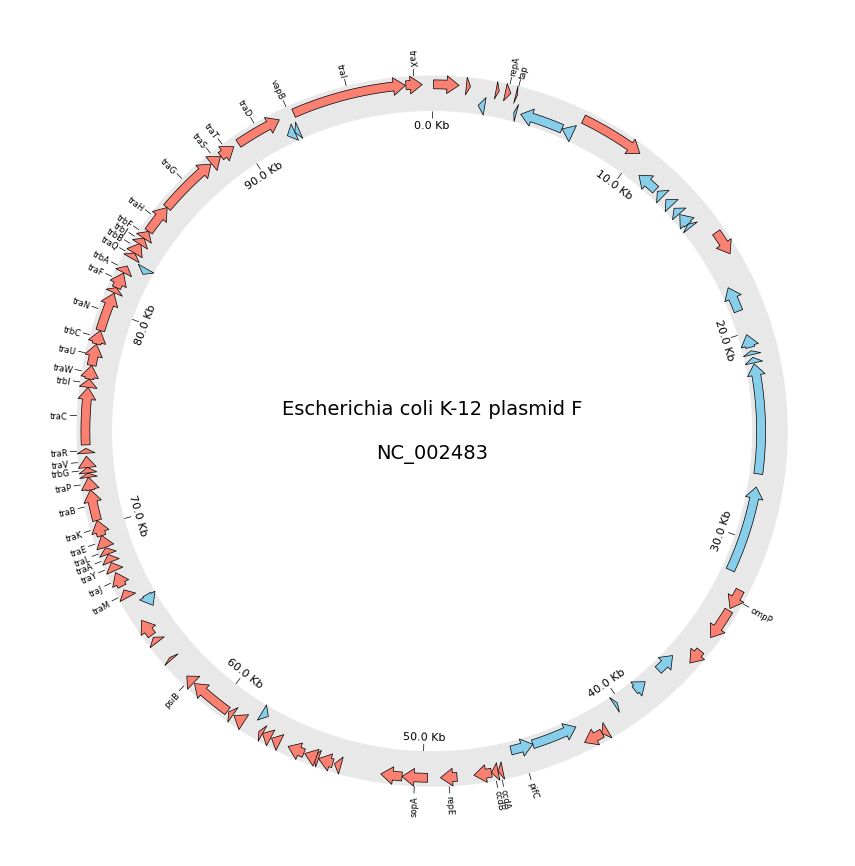
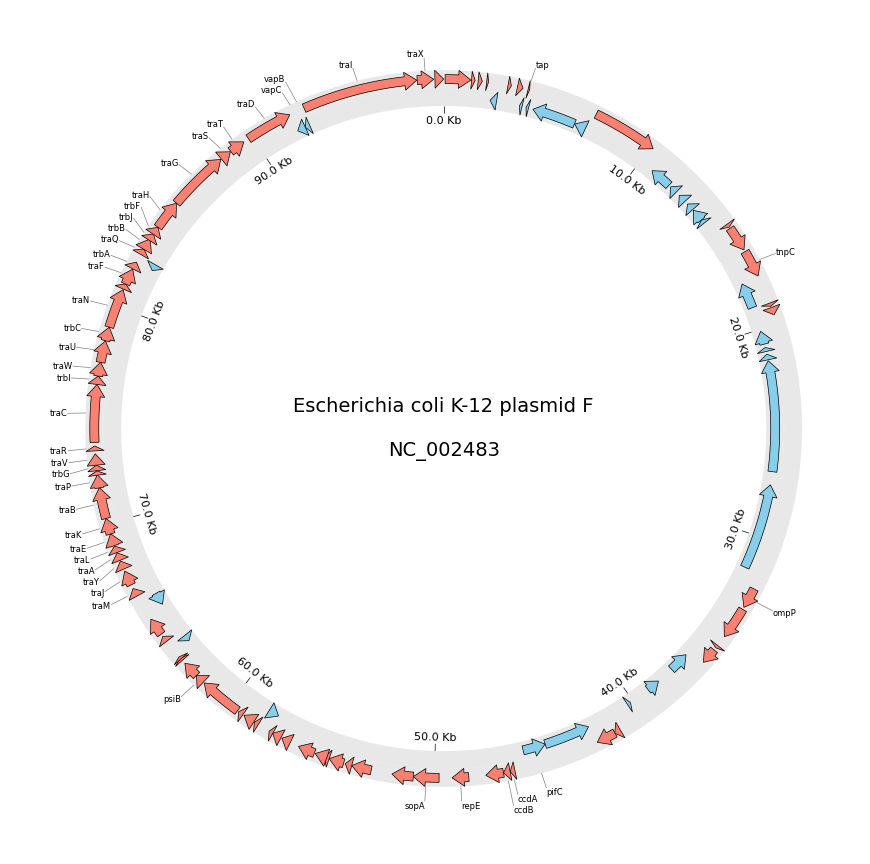
Update README example image
- Update Circos Plot (Genomics) to use `track.annotate()`

diff --git a/README.md b/README.md
@@ -139,7 +139,7 @@ for sector in circos.sectors:
         if gene_name is not None:
             labels.append(gene_name)
             label_pos_list.append(label_pos)
-    f_cds_track.xticks(label_pos_list, labels, label_size=6, label_orientation="vertical")
+            f_cds_track.annotate(label_pos, gene_name, label_size=6)
 
     # Plot xticks (interval = 10 Kb)
     r_cds_track.xticks_by_interval(
